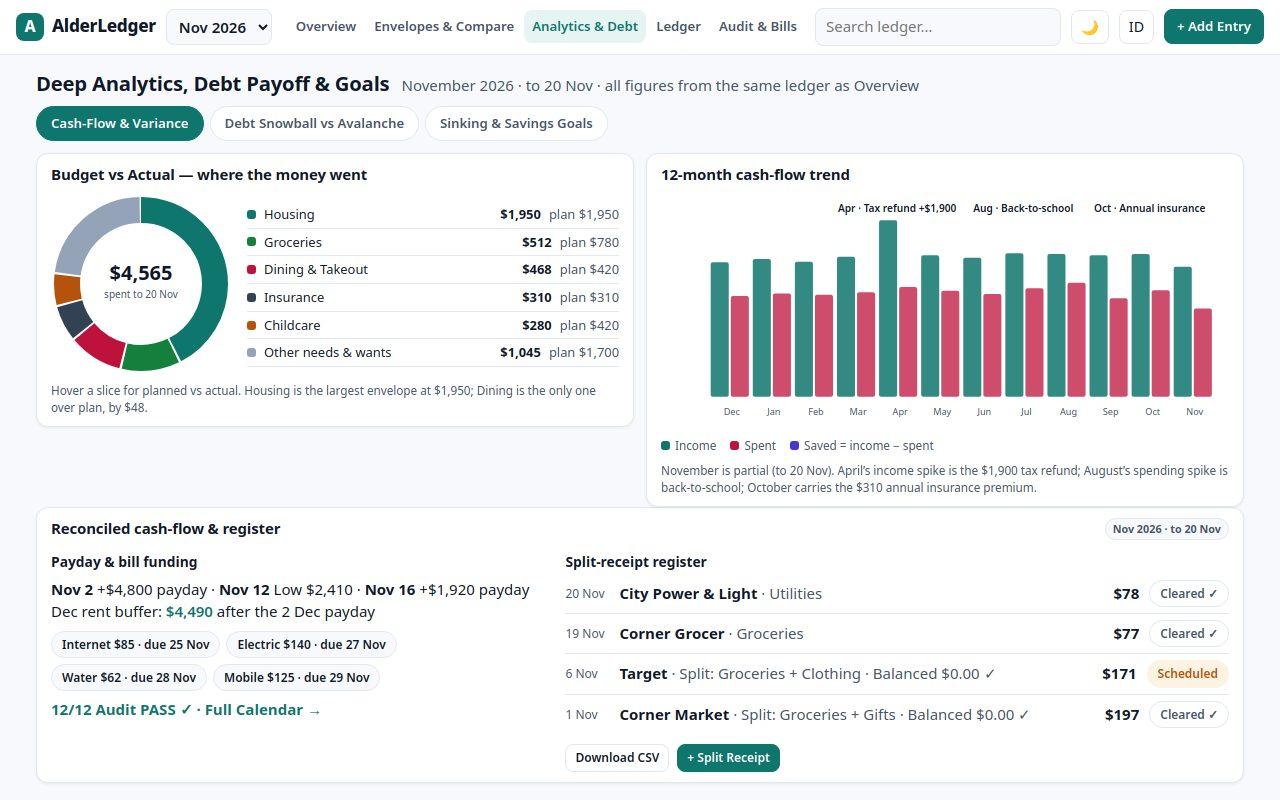
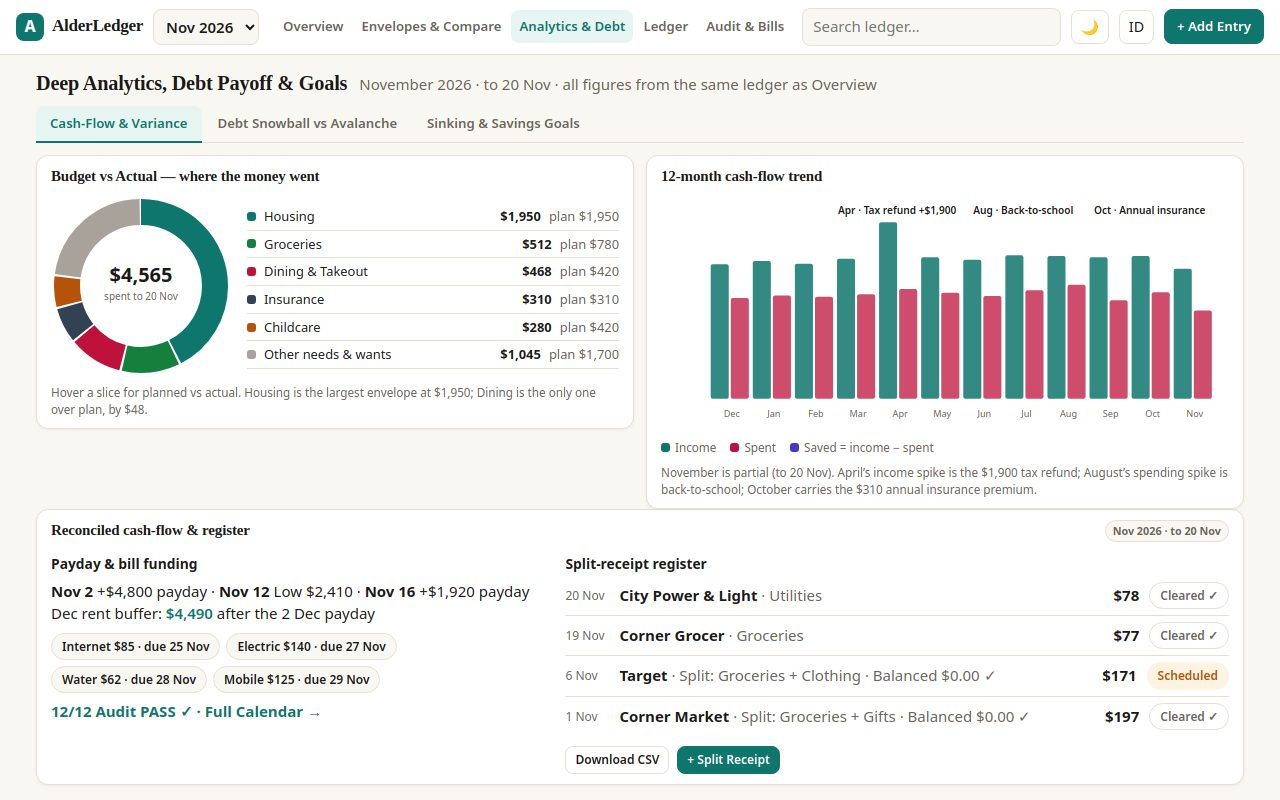
AlderLedger V5: warm editorial craft, debt-label pill, underline subtabs
- Debt payoff curve: the Minimums label is now a pill (card-bg fill,
  hairline border, rx 6) whose bottom sits 14px above the red dashed
  curve at the pill's left edge (computed from the minimums series, so
  no dashed segment can ever touch the text). The plot top is raised
  (PT 16 -> 22) so 'Total debt $11,450 -> $0' clears the curve by 5px;
  'Debt-free - 25 mo' verified clean too.
- Visual craft: warm linen canvas #F9F7F2, ivory cards with warm stone
  hairlines #E6E0D4 and a warm shadow; Fraunces serif (Google Fonts,
  Georgia fallback) for the wordmark, page titles and card headers;
  figures stay system sans with tabular numbers. Dark mode is now warm
  slate-pine (#111715 / #18201D). The cool grey #94A3B8 is warmed to
  #A8A29A everywhere (cash-on-hand segment, donut Other, compare B).
- Overview 50/30/20 labels: the bar drops 6px (y 19, height 27) so
  '50% needs' and '80% - 20% save' have clean air above the bar; the
  tick marks are 2px. The left panel still ends exactly at 800px.
- Analytics sub-nav is an editorial underline tab bar on desktop
  (active pine-teal underline + tint); the pill tabs stay on phones
  (<= 640px). The register strip still ends at 785px.
- Mobile debt: the KPI sub-lines, curve legend, trim note and method
  interest line drop out, and the schedule pill is hidden, so the
  schedule card's first row (Store Card - paid off mo 4) sits inside
  the 844px frame (bottom 800); the method cards keep their headline
  months (25 / 24).
[…]

diff --git a/app/charts.js b/app/charts.js
@@ -28,7 +28,7 @@ export function allocationStrip(s) {
     { label: 'Needs', value: s.needs.spent, color: '#0F766E' },
     { label: 'Wants', value: s.wants.spent, color: '#B45309' },
     { label: 'Savings & Debt', value: s.savings.spent, color: '#4338CA' },
-    { label: 'Cash on hand', value: Math.max(0, s.cashOnHand), color: '#94A3B8' },
+    { label: 'Cash on hand', value: Math.max(0, s.cashOnHand), color: '#A8A29A' },
   ];
   // Pixel viewBox (560 wide) so the marker text renders at a real 10px:
   // a 0–100 viewBox with preserveAspectRatio="none" would stretch the
@@ -37,11 +37,11 @@ export function allocationStrip(s) {
   let x = 0;
   const segs = parts.map((p) => {
     const w = (p.value / total) * W;
-    const seg = `<rect x="${x.toFixed(2)}" y="13" width="${Math.max(w, 3).toFixed(2)}" height="33" rx="4" fill="${p.color}"><title>${esc(p.label)}: ${fmt(p.value)} (${((p.value / total) * 100).toFixed(1)}%)</title></rect>`;
+    const seg = `<rect x="${x.toFixed(2)}" y="19" width="${Math.max(w, 3).toFixed(2)}" height="27" rx="4" fill="${p.color}"><title>${esc(p.label)}: ${fmt(p.value)} (${((p.value / total) * 100).toFixed(1)}%)</title></rect>`;
     x += w;
     return seg;
   }).join('');
-  const marks = [50, 80].map((p) => { const mx = (p / 100) * W; return `<line x1="${mx}" y1="13" x2="${mx}" y2="47" stroke="#0F172A" stroke-width="1.5" stroke-dasharray="3 3"/><text x="${mx}" y="9" text-anchor="middle" font-size="10" fill="var(--muted)">${p === 50 ? '50% needs' : '80% · 20% save'}</text>`; }).join('');
+  const marks = [50, 80].map((p) => { const mx = (p / 100) * W; return `<line x1="${mx}" y1="19" x2="${mx}" y2="47" stroke="#0F172A" stroke-width="2" stroke-dasharray="3 3"/><text x="${mx}" y="9" text-anchor="middle" font-size="10" fill="var(--muted)">${p === 50 ? '50% needs' : '80% · 20% save'}</text>`; }).join('');
   const legend = parts.map((p) => `<span class="strip-leg"><i style="background:${p.color}"></i>${esc(p.label)} <b>${fmt(p.value)}</b></span>`).join('');
   return `<svg viewBox="0 0 ${W} 52" width="100%" height="52" role="img" aria-label="Income allocation">${marks}${segs}</svg><div class="strip-legend">${legend}</div>`;
 }
@@ -77,7 +77,7 @@ export function cushionChart() {
   return `<svg viewBox="0 0 ${W} ${H}" width="100%" role="img" aria-label="30-day checking cushion">
     <line x1="${PL}" y1="${floorY}" x2="${W - PR}" y2="${floorY}" stroke="#BE123C" stroke-width="1.5" stroke-dasharray="5 4"/>
     <text x="${PL + 4}" y="${floorY - 5}" text-anchor="start" font-size="10" fill="#BE123C">$1,000 floor</text>
-    <line x1="${X(20)}" y1="${PT}" x2="${X(20)}" y2="${H - PB}" stroke="#94A3B8" stroke-width="1" stroke-dasharray="2 3"/>
+    <line x1="${X(20)}" y1="${PT}" x2="${X(20)}" y2="${H - PB}" stroke="#A8A29A" stroke-width="1" stroke-dasharray="2 3"/>
     <text x="${X(20)}" y="${H - 8}" text-anchor="middle" font-size="10" fill="var(--muted)">today · 20 Nov</text>
     <polygon points="${area}" fill="#0F766E" opacity="0.10"/>
     <polyline points="${pts}" fill="none" stroke="#0F766E" stroke-width="2.5" stroke-linejoin="round"/>
@@ -112,7 +112,7 @@ export function varianceDonut(s) {
   const rest = ENVELOPES.filter((e) => !e.savings && !top.includes(e));
   const other = rest.reduce((a, e) => a + s.spent[e.id], 0);
   const otherPlanned = rest.reduce((a, e) => a + s.planned[e.id], 0);
-  const slices = [...top.map((e) => ({ label: e.name, value: s.spent[e.id], planned: s.planned[e.id], color: e.color })), { label: 'Other needs & wants', value: other, planned: otherPlanned, color: '#94A3B8' }];
+  const slices = [...top.map((e) => ({ label: e.name, value: s.spent[e.id], planned: s.planned[e.id], color: e.color })), { label: 'Other needs & wants', value: other, planned: otherPlanned, color: '#A8A29A' }];
   const total = slices.reduce((a, x) => a + x.value, 0) || 1;
   const R = 74, C = 2 * Math.PI * R;
   let off = 0;
@@ -133,7 +133,7 @@ export function varianceDonut(s) {
 // HTML under the SVG (not drawn inside it) so its text stays full-size
 // on a phone and can never overlap a line.
 export function debtCurve(current, minimums, callout) {
-  const W = 560, H = 132, PL = 46, PR = 14, PT = 16, PB = 22;
+  const W = 560, H = 132, PL = 46, PR = 14, PT = 22, PB = 22;
   const maxV = 1145000;
   const maxM = Math.max(current.months, minimums.months, 1);
   const X = (m) => PL + (m / maxM) * (W - PL - PR);
@@ -144,12 +144,25 @@ export function debtCurve(current, minimums, callout) {
   };
   const same = current.months === minimums.months;
   const endCur = `<circle cx="${X(current.months).toFixed(1)}" cy="${Y(0).toFixed(1)}" r="4" fill="#0F766E"/><text x="${Math.min(X(current.months) + 8, W - 70).toFixed(1)}" y="${(Y(0) - 8).toFixed(1)}" font-size="11" font-weight="700" fill="#0F766E">Debt-free · ${current.months} mo</text>`;
-  const endMin = same ? '' : `<circle cx="${X(minimums.months).toFixed(1)}" cy="${Y(0).toFixed(1)}" r="4" fill="#BE123C"/><text x="${(X(minimums.months) - 8).toFixed(1)}" y="${(Y(0) - 8).toFixed(1)}" text-anchor="end" font-size="11" font-weight="700" fill="#BE123C">Minimums · ${minimums.months} mo</text>`;
+  // The minimums label sits in a pill, never on the line: its bottom is
+  // placed 14px above the red curve at the pill's left edge (the curve's
+  // highest point under the label, since the balance only falls), the
+  // pill is filled with the card background and given a hairline border,
+  // so no dashed segment can ever touch the text.
+  const minLabel = `Minimums · ${minimums.months} mo`;
+  const minPillW = minLabel.length * 7 + 16;
+  const minPillRight = X(minimums.months) - 8;
+  const minPillLeft = minPillRight - minPillW;
+  const mLeft = Math.max(0, ((minPillLeft - PL) / (W - PL - PR)) * maxM);
+  const iLeft = Math.min(minimums.series.length - 1, Math.floor(mLeft));
+  const balLeft = minimums.series[iLeft] + (minimums.series[Math.min(iLeft + 1, minimums.series.length - 1)] - minimums.series[iLeft]) * (mLeft - iLeft);
+  const minPillBottom = Y(balLeft) - 14;
+  const endMin = same ? '' : `<circle cx="${X(minimums.months).toFixed(1)}" cy="${Y(0).toFixed(1)}" r="4" fill="#BE123C"/><g><rect x="${minPillLeft.toFixed(1)}" y="${(minPillBottom - 20).toFixed(1)}" width="${minPillW}" height="20" rx="6" fill="var(--card)" stroke="var(--border)" stroke-width="1"/><text x="${(minPillLeft + minPillW / 2).toFixed(1)}" y="${(minPillBottom - 6).toFixed(1)}" text-anchor="middle" font-size="11" font-weight="700" fill="#BE123C">${minLabel}</text></g>`;
   const legend = same
     ? `<div class="strip-legend"><span class="strip-leg"><i style="background:#BE123C"></i>Minimums only — the current plan is minimums</span></div>`
     : `<div class="strip-legend"><span class="strip-leg"><i style="background:#0F766E"></i>Current plan</span><span class="strip-leg"><i style="background:#BE123C"></i>Minimums only</span></div>`;
   return `<svg viewBox="0 0 ${W} ${H}" width="100%" role="img" aria-label="Debt payoff curve">
-    <text x="${PL}" y="${PT - 4}" font-size="10" fill="var(--muted)">Total debt $11,450 → $0</text>
+    <text x="${PL}" y="${PT - 8}" font-size="10" fill="var(--muted)">Total debt $11,450 → $0</text>
     <line x1="${PL}" y1="${Y(0)}" x2="${W - PR}" y2="${Y(0)}" stroke="var(--border)" stroke-width="1"/>
     ${same ? line(minimums.series, '#BE123C', true) : line(minimums.series, '#BE123C', true) + line(current.series, '#0F766E', false)}
     ${endCur}${endMin}

diff --git a/app/style.css b/app/style.css
@@ -1,18 +1,20 @@
 /* AlderLedger — editorial warm-light design system.
-   One palette, two themes, zero external assets. All type uses the
-   system stack with tabular numbers, so money columns always align. */
+   Warm linen canvas, ivory cards, stone hairlines; Fraunces serif for
+   the wordmark and headings, system sans with tabular numbers for figures.
+   One palette, two themes, zero external assets except the Fraunces
+   stylesheet (Georgia fallback when it cannot load). */
 
 :root {
-  --bg: #F7F9FC; --card: #FFFFFF; --border: #E2E8F0;
-  --ink: #0F172A; --muted: #475569; --faint: #94A3B8;
+  --bg: #F9F7F2; --card: #FFFFFF; --border: #E6E0D4;
+  --ink: #1B1917; --muted: #6B655B; --faint: #A8A29A;
   --teal: #0F766E; --crimson: #BE123C; --amber: #B45309; --indigo: #4338CA;
   --teal-soft: #E6F4F2; --red-soft: #FDECEF; --amber-soft: #FDF3E3; --indigo-soft: #ECECFB;
-  --shadow: 0 1px 3px rgba(15, 23, 42, 0.07);
+  --shadow: 0 1px 3px rgba(93, 78, 55, 0.08);
   color-scheme: light;
 }
 [data-theme="dark"] {
-  --bg: #0B1220; --card: #111C2E; --border: #24344D;
-  --ink: #E8EEF7; --muted: #9DB0C6; --faint: #5B6B82;
+  --bg: #111715; --card: #18201D; --border: #2A332F;
+  --ink: #EDEBE6; --muted: #A8B0A4; --faint: #6B7268;
   --teal-soft: #0E2E2B; --red-soft: #3A1420; --amber-soft: #33240F; --indigo-soft: #1D1B4A;
   --shadow: 0 1px 3px rgba(0, 0, 0, 0.4);
   color-scheme: dark;
@@ -22,8 +24,8 @@ html { font-size: 15px; }
 body { margin: 0; background: var(--bg); color: var(--ink); font-family: ui-sans-serif, system-ui, -apple-system, "Segoe UI", Roboto, Helvetica, Arial, sans-serif; font-variant-numeric: tabular-nums; line-height: 1.45; }
 a { color: var(--teal); text-decoration: none; }
 a:hover { text-decoration: underline; }
-h1 { font-size: 1.35rem; margin: 0; letter-spacing: -0.01em; }
-h2 { font-size: 1rem; margin: 0; letter-spacing: -0.01em; }
+h1 { font-size: 1.35rem; margin: 0; letter-spacing: -0.01em; font-family: 'Fraunces', 'Newsreader', Georgia, serif; font-weight: 700; }
+h2 { font-size: 1rem; margin: 0; letter-spacing: -0.01em; font-family: 'Fraunces', 'Newsreader', Georgia, serif; font-weight: 600; }
 h3 { font-size: 0.92rem; margin: 10px 0 4px; }
 button, input, select { font: inherit; color: inherit; }
 button { cursor: pointer; }
@@ -39,7 +41,7 @@ code { font-size: 0.85em; background: var(--bg); padding: 0 4px; border-radius: 
 .brand { display: flex; align-items: baseline; gap: 8px; color: var(--ink); flex: 0 0 auto; }
 .brand:hover { text-decoration: none; }
 .brand-mark { display: inline-flex; align-items: center; justify-content: center; width: 28px; height: 28px; border-radius: 8px; background: var(--teal); color: #fff; font-weight: 800; font-size: 1.05rem; align-self: center; }
-.brand-name { font-weight: 800; font-size: 1.15rem; letter-spacing: -0.02em; }
+.brand-name { font-family: 'Fraunces', 'Newsreader', Georgia, serif; font-weight: 700; font-size: 1.15rem; letter-spacing: -0.02em; }
 .brand-sub { font-size: 0.72rem; color: var(--muted); white-space: nowrap; }
 .month-select { border: 1px solid var(--border); background: var(--bg); border-radius: 8px; padding: 6px 8px; font-weight: 600; }
 .tabs { display: flex; gap: 2px; margin-left: 6px; }
@@ -192,8 +194,17 @@ input[type="number"] { -moz-appearance: textfield; appearance: textfield; }
 .rec { color: var(--teal); font-weight: 700; }
 
 /* ---- Analytics ---- */
-.subtabs { display: flex; gap: 6px; flex-wrap: wrap; margin-bottom: 12px; }
-.subtabs .pill-btn { padding: 7px 14px; font-size: 0.88rem; }
+/* Analytics sub-nav: an editorial underline tab bar on desktop (the
+   pill look is kept for phones, where it wraps cleanly). */
+.subtabs { display: flex; gap: 2px; flex-wrap: wrap; margin-bottom: 12px; border-bottom: 1px solid var(--border); }
+.subtabs .pill-btn { background: transparent; border: 0; border-bottom: 2px solid transparent; border-radius: 8px 8px 0 0; padding: 8px 14px; font-size: 0.88rem; margin-bottom: -1px; }
+.subtabs .pill-btn:hover { color: var(--ink); background: var(--bg); }
+.subtabs .pill-btn.on { background: var(--teal-soft); color: var(--teal); border-bottom-color: var(--teal); }
+@media (max-width: 640px) {
+  .subtabs { gap: 6px; border-bottom: 0; }
+  .subtabs .pill-btn { border: 1px solid var(--border); background: var(--card); border-radius: 999px; padding: 7px 14px; margin-bottom: 0; }
+  .subtabs .pill-btn.on { background: var(--teal); border-color: var(--teal); color: #fff; }
+}
 .donut-wrap { display: flex; gap: 16px; align-items: center; flex-wrap: wrap; }
 .donut-legend { flex: 1 1 200px; }
 .donut-row { display: flex; gap: 8px; align-items: baseline; padding: 4px 0; border-bottom: 1px solid var(--border); font-size: 0.86rem; }
@@ -338,8 +349,13 @@ button.cal-bill { border: 0; cursor: pointer; font: inherit; text-align: left; w
   .debt-cards:not(.vaults) { grid-template-columns: 1fr 1fr; gap: 8px; }
   .debt-card h3 .muted { display: none; }
   .debt-big { font-size: 1.3rem; }
-  .debt-kpis { grid-template-columns: 1fr 1fr; gap: 6px; margin-bottom: 6px; }
-  .debt-kpi { padding: 6px 10px; }
+  .debt-kpis { grid-template-columns: 1fr 1fr; gap: 6px; margin-bottom: 4px; }
+  .debt-kpi { padding: 5px 10px; }
+  /* V5: the KPI sub-lines (Snowball · 25 mo, vs minimums $7,740, …)
+     are redundant on a phone — the method toggle and the callout say
+     the same — so they drop out, freeing ~36px for the schedule card
+     below. */
+  .debt-kpi .muted:last-child { display: none; }
   .trim { font-size: 0.8rem; }
   .trim-row { gap: 8px; }
   .shock-label, .slider-note, .hide-m, .order-line { display: none; }
@@ -347,11 +363,22 @@ button.cal-bill { border: 0; cursor: pointer; font: inherit; text-align: left; w
      card's heading is inside the 844px frame, not just its top edge. */
   .route-analytics .page-head { margin-bottom: 6px; }
   .subtabs { margin-bottom: 8px; }
-  .method-row { margin-bottom: 8px; }
-  .debt-card { padding: 6px 10px; }
+  .method-row { margin-bottom: 6px; }
+  .debt-card { padding: 5px 10px; }
   .debt-card h3 { margin-bottom: 2px; }
-  .curve-callout { margin-top: 4px; }
+  .curve-callout { margin-top: 2px; }
   .sched-cols { grid-template-columns: 1fr; }
+  .sched-cols h3 { margin: 2px 0 2px; }
+  /* V5: four more mobile debt cuts so the schedule card's first row
+     (Store Card · paid off mo 4) is inside the 844px frame. The schedule
+     pill repeats the KPI + h3, the curve legend repeats the end labels,
+     the trim note repeats the slider, and the method interest line is
+     carried by the Interest-saved KPI + callout — all four stay on
+     desktop, where the frame is tall enough. */
+  .sched-card .card-head .pill { display: none; }
+  .debt-controls .strip-legend { display: none; }
+  .trim-note { display: none; }
+  .debt-cards:not(.vaults) .debt-card p:not(.debt-big) { display: none; }
   .route-analytics .page-head .muted { display: none; }
   .route-analytics .page-head h1 { font-size: 1.2rem; }
   .latest-strip { grid-template-columns: 1fr 1fr; }

diff --git a/app/views/analytics.js b/app/views/analytics.js
@@ -136,12 +136,12 @@ export function renderAnalytics(state, s, audit) {
       <div class="debt-kpi"><span class="muted">Emergency runway</span><b class="kpi-num">${runway} mos</b><span class="muted">${fmt(GOALS.find((g) => g.id === 'emergency').balance)} fund</span></div>
     </div>
     <section class="grid-2">
-      <div class="card"><div class="card-head"><h2>Extra monthly debt payment: <b>${fmt(extra)}</b></h2></div>
+      <div class="card debt-controls"><div class="card-head"><h2>Extra monthly debt payment: <b>${fmt(extra)}</b></h2></div>
         <div class="method-row"><span class="muted">Method:</span>${[['snowball', 'Snowball'], ['avalanche', 'Avalanche'], ['minimums', 'Minimums']].map(([k, label]) => `<button class="pill-btn${method === k ? ' on' : ''}" data-action="debt-method" data-method="${k}">${label}</button>`).join('')}</div>
         <label class="slider-row"> $0 <input type="range" min="0" max="80000" step="2500" value="${slider}" data-action="debt-extra" aria-label="Extra monthly debt payment in cents"${minMethod ? ' disabled' : ''}> $800 <span class="muted slider-note">(${(slider / 100).toFixed(0)}/mo on top of ${fmt(32000)} minimums)</span></label>
         <div class="trim-row">${TRIMS.map((x) => `<label class="trim"><input type="checkbox" data-action="debt-trim" data-trim="${x.id}"${state.debtTrims && state.debtTrims[x.id] ? ' checked' : ''}${minMethod ? ' disabled' : ''}> ${esc(x.label)}</label>`).join('')}</div>
         <div class="shock-row"><span class="muted shock-label">Income shock:</span>${SHOCKS.map((x) => `<button class="pill-btn${shock === x.v ? ' on' : ''}" data-action="debt-shock" data-shock="${x.v}">${esc(x.label)}</button>`).join('')}</div>
-        <p class="fineprint">${minMethod ? 'Minimums: the slider and trims are off — only the $320/mo minimums are paid.' : `Trims add ${fmt(trimSum)}/mo to the extra payment${incomeLoss ? ` · shock takes ${fmt(incomeLoss)}/mo off it` : ''} · effective extra ${fmt(extra)}/mo.`}</p>
+        <p class="fineprint trim-note">${minMethod ? 'Minimums: the slider and trims are off — only the $320/mo minimums are paid.' : `Trims add ${fmt(trimSum)}/mo to the extra payment${incomeLoss ? ` · shock takes ${fmt(incomeLoss)}/mo off it` : ''} · effective extra ${fmt(extra)}/mo.`}</p>
         ${debtCurve(cur, minSim.snowball, callout)}
         <div class="debt-cards">
           <div class="debt-card"><h3>Snowball <span class="muted">— smallest balance first</span></h3><p class="debt-big">${sim.snowball.months} months</p><p>Interest ${fmt(sim.snowball.interest)} <span class="order-line">· order: ${sim.snowballOrder.join(' → ')}</span></p></div>
@@ -149,7 +149,7 @@ export function renderAnalytics(state, s, audit) {
         </div>
         <p class="fineprint hide-m">${minMethod ? 'Minimums only: with no extra payment, either method takes 105 months and $7,740 of interest — the extra payment is the whole game.' : extra > 0 ? `Avalanche saves ${fmt(save)} of interest and finishes ${sim.snowball.months - sim.avalanche.months} month${sim.snowball.months - sim.avalanche.months === 1 ? '' : 's'} sooner than snowball at ${fmt(extra)}/mo extra. With no extra payment, either method takes 105 months and ${fmt(774030)} of interest — the extra payment is the whole game.` : 'Move the slider or add a trim: with no extra payment, either method takes 105 months and $7,740 of interest.'}</p>${shockNote ? `<p class="fineprint">${esc(shockNote)}</p>` : ''}
       </div>
-      <div class="card"><div class="card-head"><h2>Loan schedule &amp; sinking vaults</h2><span class="pill">${esc(methodLabel)} · debt-free ${esc(freeDate)}</span></div>
+      <div class="card sched-card"><div class="card-head"><h2>Loan schedule &amp; sinking vaults</h2><span class="pill">${esc(methodLabel)} · debt-free ${esc(freeDate)}</span></div>
         <div class="sched-cols"><div><h3>Payoff order — ${esc(methodLabel.toLowerCase())}</h3>${schedRows}</div>
         <div><h3>Sinking vaults — irregular bills, pre-funded</h3>${vaultRows}</div></div>
         <p class="fineprint">The schedule follows the ${esc(methodLabel.toLowerCase())} order at ${fmt(extra)}/mo extra. Minimums alone are ${fmt(32000)}/mo; the $300/mo extra in the November plan is the Debt Extra envelope (${fmt(s.spent.debtextra)} moved to 20 Nov). Vaults are pre-funded from the $260/mo Sinking Funds transfer — a vault behind its monthly need shows in red.</p></div>

diff --git a/app/views/envelopes.js b/app/views/envelopes.js
@@ -49,7 +49,7 @@ export function renderEnvelopes(state, s) {
     const max = Math.max(a, b, 1);
     const diff = a - b;
     return `<div class="cmp-row"><span class="cmp-name">${esc(name)}</span>
-      <span class="cmp-bars"><i style="width:${(a / max * 100).toFixed(1)}%;background:#0F766E"></i><i style="width:${(b / max * 100).toFixed(1)}%;background:#94A3B8"></i></span>
+      <span class="cmp-bars"><i style="width:${(a / max * 100).toFixed(1)}%;background:#0F766E"></i><i style="width:${(b / max * 100).toFixed(1)}%;background:#A8A29A"></i></span>
       <span class="cmp-nums"><b>${fmt(a)}</b> vs ${fmt(b)}</span>
       <span class="${diff > 0 ? 'bad' : diff < 0 ? 'good' : 'muted'}">${diff === 0 ? '±$0' : (diff > 0 ? '+' : '−') + fmt(Math.abs(diff)).slice(1)}</span></div>`;
   }).join('');
@@ -75,7 +75,7 @@ export function renderEnvelopes(state, s) {
 
     </div>
     <div>
-      <div class="card"><div class="card-head"><h2>${esc(t(lang, 'compare'))}</h2></div>${cmpSelects}<div class="cmp-legend"><span><i style="background:#0F766E"></i>A · ${esc(A.label)}</span><span><i style="background:#94A3B8"></i>B · ${esc(B.label)}</span></div>${cmpRows}
+      <div class="card"><div class="card-head"><h2>${esc(t(lang, 'compare'))}</h2></div>${cmpSelects}<div class="cmp-legend"><span><i style="background:#0F766E"></i>A · ${esc(A.label)}</span><span><i style="background:#A8A29A"></i>B · ${esc(B.label)}</span></div>${cmpRows}
       <p class="fineprint">A is teal, B is grey. November actuals run to 20 Nov; the 50/30/20 target is the full-month plan on $7,420 of income.</p></div>
     </div>
   </section>

diff --git a/app/index.html b/app/index.html
@@ -6,6 +6,7 @@
 <title>AlderLedger — Household Cash-Flow, Zero-Based Envelopes &amp; Debt Planner</title>
 <meta name="description" content="AlderLedger: a 100% offline household budget, cash-flow and zero-based envelope planner. One reconciled ledger for November 2026 — income, envelopes, bills, debt and a live 12-check audit.">
 <link rel="stylesheet" href="./style.css">
+<link rel="stylesheet" href="https://fonts.googleapis.com/css2?family=Fraunces:opsz,wght@9..144,600;9..144,700&display=swap">
 </head>
 <body>
 <div id="app"><p style="padding:24px;font-family:system-ui,sans-serif">Loading AlderLedger…</p></div>
